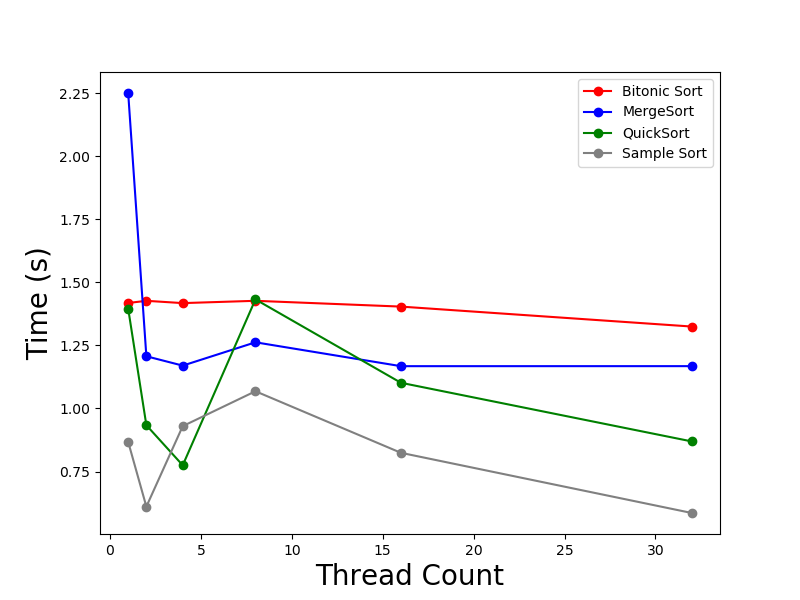
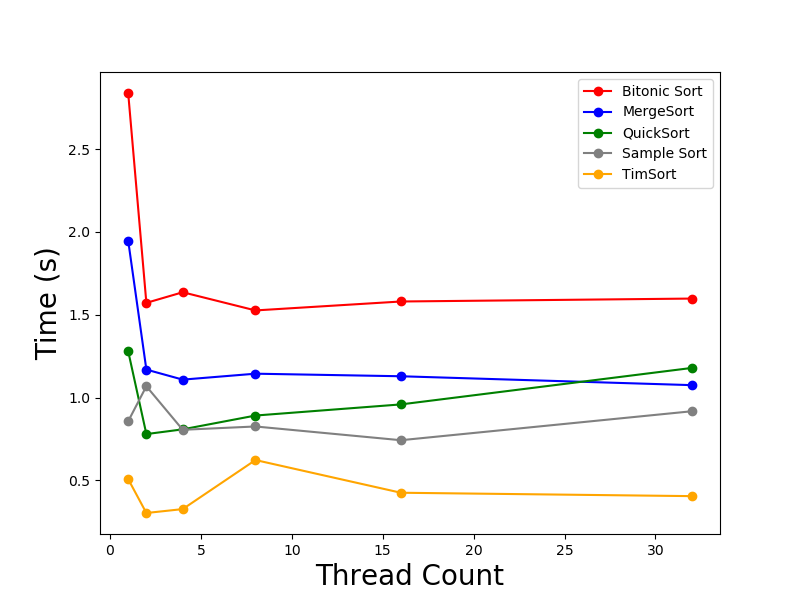
updated graphs and added fflush on file writer

diff --git a/c_version/main_openmp.c b/c_version/main_openmp.c
@@ -6,7 +6,7 @@
 #include <math.h>
 
 #define TASK_SIZE 63
-const int RUN = 32; //TimSort "run" size. Factors of 2 only, 32 or 64 recommended.
+const int RUN = 32; // TimSort "run" size. Factors of 2 only, 32 or 64 recommended.
 
 typedef void (*func)(int *, int, int, int);
 
@@ -71,7 +71,7 @@ void compAndSwap(int *a, int i, int j, int dir)
 Bitonic Sort METHODS
 */
 
-void bitonicMerge(int* a, int low, int cnt, int dir)
+void bitonicMerge(int *a, int low, int cnt, int dir)
 {
    if (cnt > 1)
    {
@@ -84,11 +84,11 @@ void bitonicMerge(int* a, int low, int cnt, int dir)
       // #pragma omp parallel sections shared(a)
       // {
       // // sort in ascending order since dir here is 1
-      // #pragma omp section 
+      // #pragma omp section
       // bitonicMerge(a, low, k, dir);
 
       // // sort in descending order since dir here is 0
-      // #pragma omp section 
+      // #pragma omp section
       // bitonicMerge(a, low + k, k, dir);
       // }
       bitonicMerge(a, low, k, dir);
@@ -102,15 +102,15 @@ void bitonicSort(int *a, int low, int cnt, int dir)
    if (cnt > 1)
    {
       int k = cnt / 2;
-      #pragma omp parallel sections shared(a)
+#pragma omp parallel sections shared(a)
       {
-      // sort in ascending order since dir here is 1
-      #pragma omp section 
-      bitonicSort(a, low, k, 1);
+// sort in ascending order since dir here is 1
+#pragma omp section
+         bitonicSort(a, low, k, 1);
 
-      // sort in descending order since dir here is 0
-      #pragma omp section 
-      bitonicSort(a, low + k, k, 0);
+// sort in descending order since dir here is 0
+#pragma omp section
+         bitonicSort(a, low + k, k, 0);
       }
 
       // Will merge whole sequence in ascending order
@@ -142,11 +142,13 @@ int partition(int array[], int low, int high)
    // pointer for greater element
    int i = (low - 1);
 
-  // traverse each element of the array
-  // compare them with the pivot
-  int j;
-  for (j = low; j < high; j++) {
-    if (array[j] <= pivot) {
+   // traverse each element of the array
+   // compare them with the pivot
+   int j;
+   for (j = low; j < high; j++)
+   {
+      if (array[j] <= pivot)
+      {
 
          // if element smaller than pivot is found
          // swap it with the greater element pointed by i
@@ -325,36 +327,36 @@ int *sampleSortHelper(int arr[], int p, int k, int length)
    memset(indicies, 0, p * sizeof(int));
 
 #pragma omp parallel
-{
+   {
 
 #pragma omp for
 
-   // Divide
-   for (int j = 0; j < length; j++)
-   {
-      int bucketNum = getBucketIndex(arr[j], splitter, splitterCount, p);
-      int indexToWrite;
+      // Divide
+      for (int j = 0; j < length; j++)
+      {
+         int bucketNum = getBucketIndex(arr[j], splitter, splitterCount, p);
+         int indexToWrite;
 
 #pragma omp atomic capture
-      indexToWrite = indicies[bucketNum]++;
+         indexToWrite = indicies[bucketNum]++;
 
-      buckets[bucketNum][indexToWrite] = arr[j];
-   }
+         buckets[bucketNum][indexToWrite] = arr[j];
+      }
 
 #pragma omp for
-   // Conquer
-   for (int i = 0; i < p; i++)
-   {
-      int *bucket = sampleSortHelper(buckets[i], p, k, indicies[i]);
-      int startingPoint = 0;
-      for (int l = 0; l < i; l++)
+      // Conquer
+      for (int i = 0; i < p; i++)
       {
-         startingPoint = startingPoint + indicies[l];
+         int *bucket = sampleSortHelper(buckets[i], p, k, indicies[i]);
+         int startingPoint = 0;
+         for (int l = 0; l < i; l++)
+         {
+            startingPoint = startingPoint + indicies[l];
+         }
+         memcpy(arr + startingPoint, bucket, indicies[i] * sizeof(int));
+         free(buckets[i]);
       }
-      memcpy(arr + startingPoint, bucket, indicies[i] * sizeof(int));
-      free(buckets[i]);
    }
-}
    return arr;
 }
 
@@ -505,94 +507,110 @@ int evenInput(int *a, int l)
    return 1;
 }
 
-//TimSort: (InsertionSort + MergeSort Hybrid)
-//My min function :)
-int min(int a, int b){
-	return (a > b ) ? b : a;
+// TimSort: (InsertionSort + MergeSort Hybrid)
+// My min function :)
+int min(int a, int b)
+{
+   return (a > b) ? b : a;
 }
 
-//Insertion sort edited. Original source: https://www.programiz.com/dsa/insertion-sort
-void insertionSort(int input[], int left, int right){
-	for(int i = left + 1; i <= right; i++){
-		int temp = input[i];
-		int j = i - 1;
-		while (j >= left && input[j] > temp){
-			input[j+1] = input[j];
-			j--;
-		}
-		input[j+1] = temp;
-	}
+// Insertion sort edited. Original source: https://www.programiz.com/dsa/insertion-sort
+void insertionSort(int input[], int left, int right)
+{
+   for (int i = left + 1; i <= right; i++)
+   {
+      int temp = input[i];
+      int j = i - 1;
+      while (j >= left && input[j] > temp)
+      {
+         input[j + 1] = input[j];
+         j--;
+      }
+      input[j + 1] = temp;
+   }
 }
 
-//Merge sort edited. Original source: https://www.programiz.com/dsa/merge-sort
-//USED FOR TIMSORT, NOT ACTUAL MERGE SORT IMPLEMENTATION
-void mergeSort(int input[], int left, int mid, int right){
-	int x = mid- left + 1; //First half size/index
-	int y = right - mid;  //Second half size/index
+// Merge sort edited. Original source: https://www.programiz.com/dsa/merge-sort
+// USED FOR TIMSORT, NOT ACTUAL MERGE SORT IMPLEMENTATION
+void mergeSort(int input[], int left, int mid, int right)
+{
+   int x = mid - left + 1; // First half size/index
+   int y = right - mid;    // Second half size/index
 
-	int *leftArr = malloc(sizeof(int) * x);
-	int *rightArr = malloc(sizeof(int) * y);
+   int *leftArr = malloc(sizeof(int) * x);
+   int *rightArr = malloc(sizeof(int) * y);
 
-	for(int i = 0; i < x; i++)
-		leftArr[i] = input[left+i];
-	for(int i = 0; i < y; i++)
-		rightArr[i] = input[mid+1+i];
+   for (int i = 0; i < x; i++)
+      leftArr[i] = input[left + i];
+   for (int i = 0; i < y; i++)
+      rightArr[i] = input[mid + 1 + i];
 
-	int i = 0;
-	int j = 0;
-	int k = left;
+   int i = 0;
+   int j = 0;
+   int k = left;
 
-	while(i < x && j < y){
-		if(leftArr[i] <= rightArr[j]){
-			input[k] = leftArr[i];
-			i++;
-		}
-		else{
-			input[k] = rightArr[j];
-			j++;
-		}
-		k++;
-	}
+   while (i < x && j < y)
+   {
+      if (leftArr[i] <= rightArr[j])
+      {
+         input[k] = leftArr[i];
+         i++;
+      }
+      else
+      {
+         input[k] = rightArr[j];
+         j++;
+      }
+      k++;
+   }
 
-	while(i < x){
-		input[k] = leftArr[i];
-		k++;
-		i++;
-	}
+   while (i < x)
+   {
+      input[k] = leftArr[i];
+      k++;
+      i++;
+   }
 
-	while(j < y){
-		input[k] = rightArr[j];
-		k++;
-		j++;
-	}
+   while (j < y)
+   {
+      input[k] = rightArr[j];
+      k++;
+      j++;
+   }
 }
 
-//OMP TimSort implementation using InsertionSort and MergeSort in a hybrid manner.
-//Parts of code were taken from: https://www.geeksforgeeks.org/timsort/
-void timSortHelper(int input[], int n){
-	#pragma omp parallel for
-	for(int i = 0; i < n; i+=RUN)
-		insertionSort(input, i, min((i+RUN-1), (n-1)));
+// OMP TimSort implementation using InsertionSort and MergeSort in a hybrid manner.
+// Parts of code were taken from: https://www.geeksforgeeks.org/timsort/
+void timSortHelper(int input[], int n)
+{
+#pragma omp parallel for
+   for (int i = 0; i < n; i += RUN)
+      insertionSort(input, i, min((i + RUN - 1), (n - 1)));
 
-	for(int size = RUN; size < n; size = size*2){
-		#pragma omp parallel for
-		for(int left = 0; left < n; left += size*2){
-			int mid = left + size - 1;
-			int right = min((left + (size*2) - 1), (n-1));
+   for (int size = RUN; size < n; size = size * 2)
+   {
+#pragma omp parallel for
+      for (int left = 0; left < n; left += size * 2)
+      {
+         int mid = left + size - 1;
+         int right = min((left + (size * 2) - 1), (n - 1));
 
-			if(mid < right)
-				mergeSort(input, left, mid, right);
-		}
-	}
+         if (mid < right)
+            mergeSort(input, left, mid, right);
+      }
+   }
 }
 
-void timSort(int input[], int left, int right, int direction){
+void timSort(int input[], int left, int right, int direction)
+{
    timSortHelper(input, right);
 }
 
-void setArraySize(int *a,int l){
-   for (int i = 0; i < l;i++){
-      a[i] = pow(2, i+1);
+void setArraySize(int *a, int l)
+{
+   for (int i = 0; i < l; i++)
+   {
+      a[i] = pow(2, i + 1);
    }
 }
 
@@ -602,13 +620,14 @@ int runExperiments(int up, int low, int high, int print)
    FILE *fpt;
    // Checks if being run from inside c_version or CSDS438 directory
    fpt = fopen("data/Group18Data.csv", "w+");
-   if(fpt == NULL) {
+   if (fpt == NULL)
+   {
       fpt = fopen("../data/Group18Data.csv", "w+");
-      if(fpt ==NULL){
+      if (fpt == NULL)
+      {
          assert(0);
          exit(1);
       }
-   
    }
    fprintf(fpt, "Algorithm,Implementation,Thread Count,Elements,Time\n");
 
@@ -617,10 +636,10 @@ int runExperiments(int up, int low, int high, int print)
    // BITONIC NEEDS POWERS OF 2
    int sizeAmount = 30;
    int arraySizes[sizeAmount];
-   setArraySize(arraySizes,sizeAmount);
+   setArraySize(arraySizes, sizeAmount);
 
    assert(evenInput(arraySizes, sizeof(arraySizes) / sizeof(arraySizes[0])));
-   int threadCount[6] = {1,2,4,8,16,32};
+   int threadCount[6] = {1, 2, 4, 8, 16, 32};
    int i;
    for (i = 0; i < sizeof(arraySizes) / sizeof(arraySizes[0]); i++)
    {
@@ -691,6 +710,7 @@ int runExperiments(int up, int low, int high, int print)
             assert(sameElements(X, Y, N));
          }
       }
+      fflush(fpt);
    }
    fclose(fpt);
    return 0;
